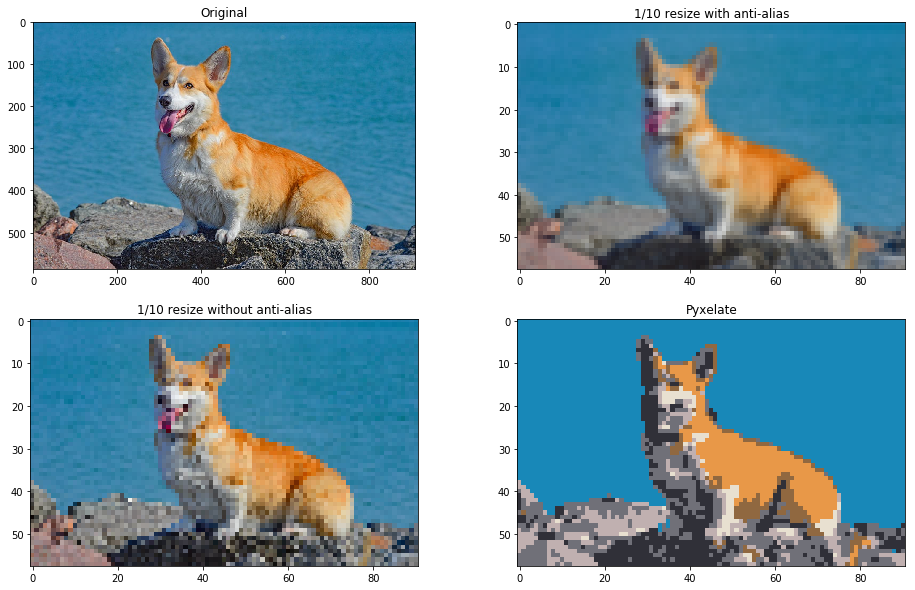
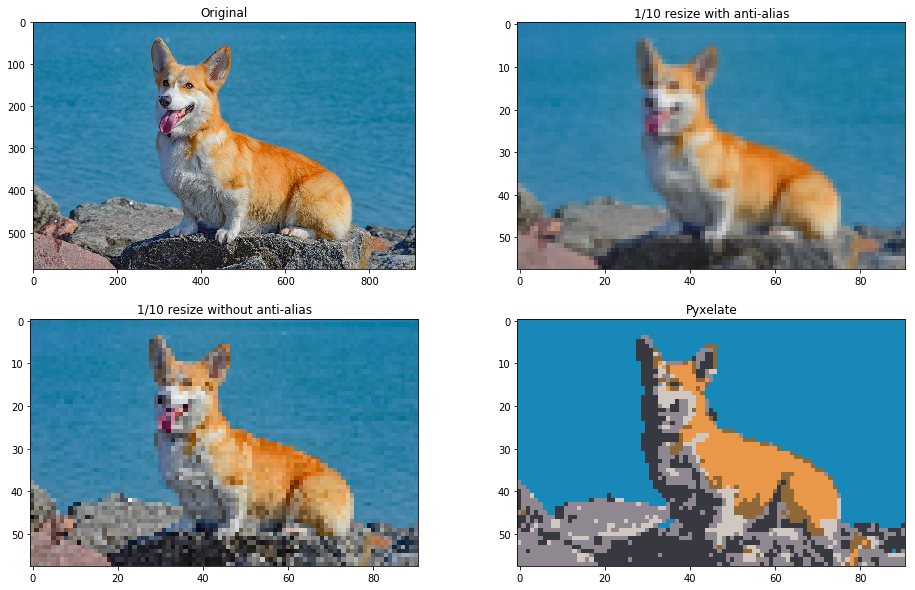
Updated README.md
- Updated README.md to answer common quesions from Reddit
- Added another example iamge

Changed region(s): [[0.5508, 0.5797, 1.0, 0.9763]]

diff --git a/README.md b/README.md
@@ -1,13 +1,19 @@
 # Generate pixel arts from images
-Pyxelate is a Python class that converts images into tiny pixel arts with limited color palettes.
+Pyxelate is a Python class that downsamples images into 8-bit pixel arts.
 
 ![Definitely not cherry picking](examples/palm10.png)
+
+The method **does more than simply resizing an image with a reduced palette**!
+The class tires to iteratively approximate a pixel art by only sampling pixels based on the orientation of edges in the input image. 
+Then it uses unsupervised machine learning to generate the basis for an 8-bit color palette.  
 
 ### Installation
 
 ```
 pip3 install git+https://github.com/sedthh/pyxelate.git
 ```
+
+![Synthwave vibes](examples/f.png)
 
 ### Example usage:
 ```python
@@ -44,13 +50,18 @@ Once the class is created, call **convert(image)** by passing a NumPy array repr
 
 **NOTE:** the process is pretty time consuming, generating large pixel arts can take quite a while!
 
-![Synthwave vibes](examples/f.png)
+![Synthwave vibes](examples/asthetic.png)
 
 ### Details
 
-The method applies a few computer vision functions and simple convolutions on images and selects pixels based on the calculated gradient's magnitude. 
-This was inspired by the [Histogram of Oriented Gradients](https://scikit-image.org/docs/dev/auto_examples/features_detection/plot_hog.html) method.
-Then a Gaussian Mixture model is fitted (instead of conventional K-means) to find a reduced palette based on its components.
+The method applies a few computer vision functions for preprocessing. Then simple convolutions are applied on the images. The downsampled areas are calculated based on their gradients' magnitudes and orientation. 
+The function was inspired by the [Histogram of Oriented Gradients](https://scikit-image.org/docs/dev/auto_examples/features_detection/plot_hog.html) method.
+Once it's done, a [Bayesian Gaussian Mixture](https://scikit-learn.org/stable/modules/generated/sklearn.mixture.BayesianGaussianMixture.html) model is fitted (instead of conventional K-means) to find a reduced palette. 
+Using the centroids of the overlapping gaussians as "mean" colors is an empirically better choice,
+as cluster centroids for rare colors would have less effect on the rest of the palette due to 
+their smaller covariances (allowing flatter gaussians to eventually take over). 
+Since it also predicts probabilities, iteratively polling from the first and second best prediction over a threshold allows simple dithering.   
+The dirichlet distributions will put less weight on unnecessary clusters as well.  
 
 ![Good boye resized](examples/corgi4.png)
 
